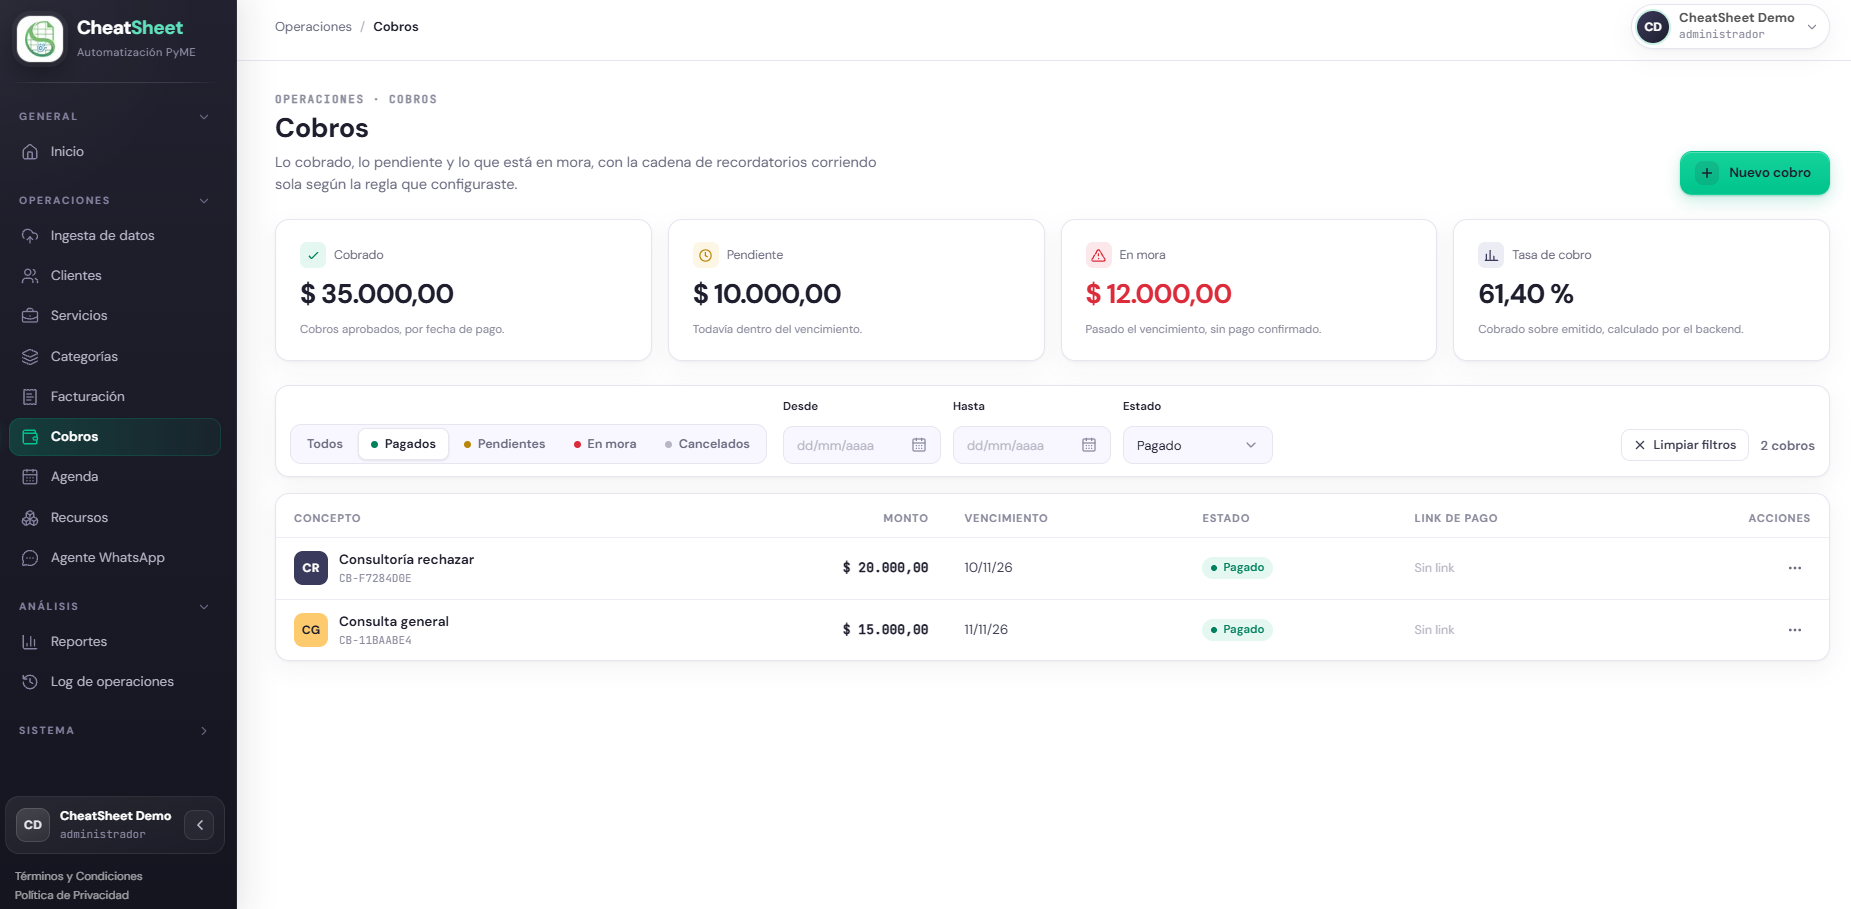
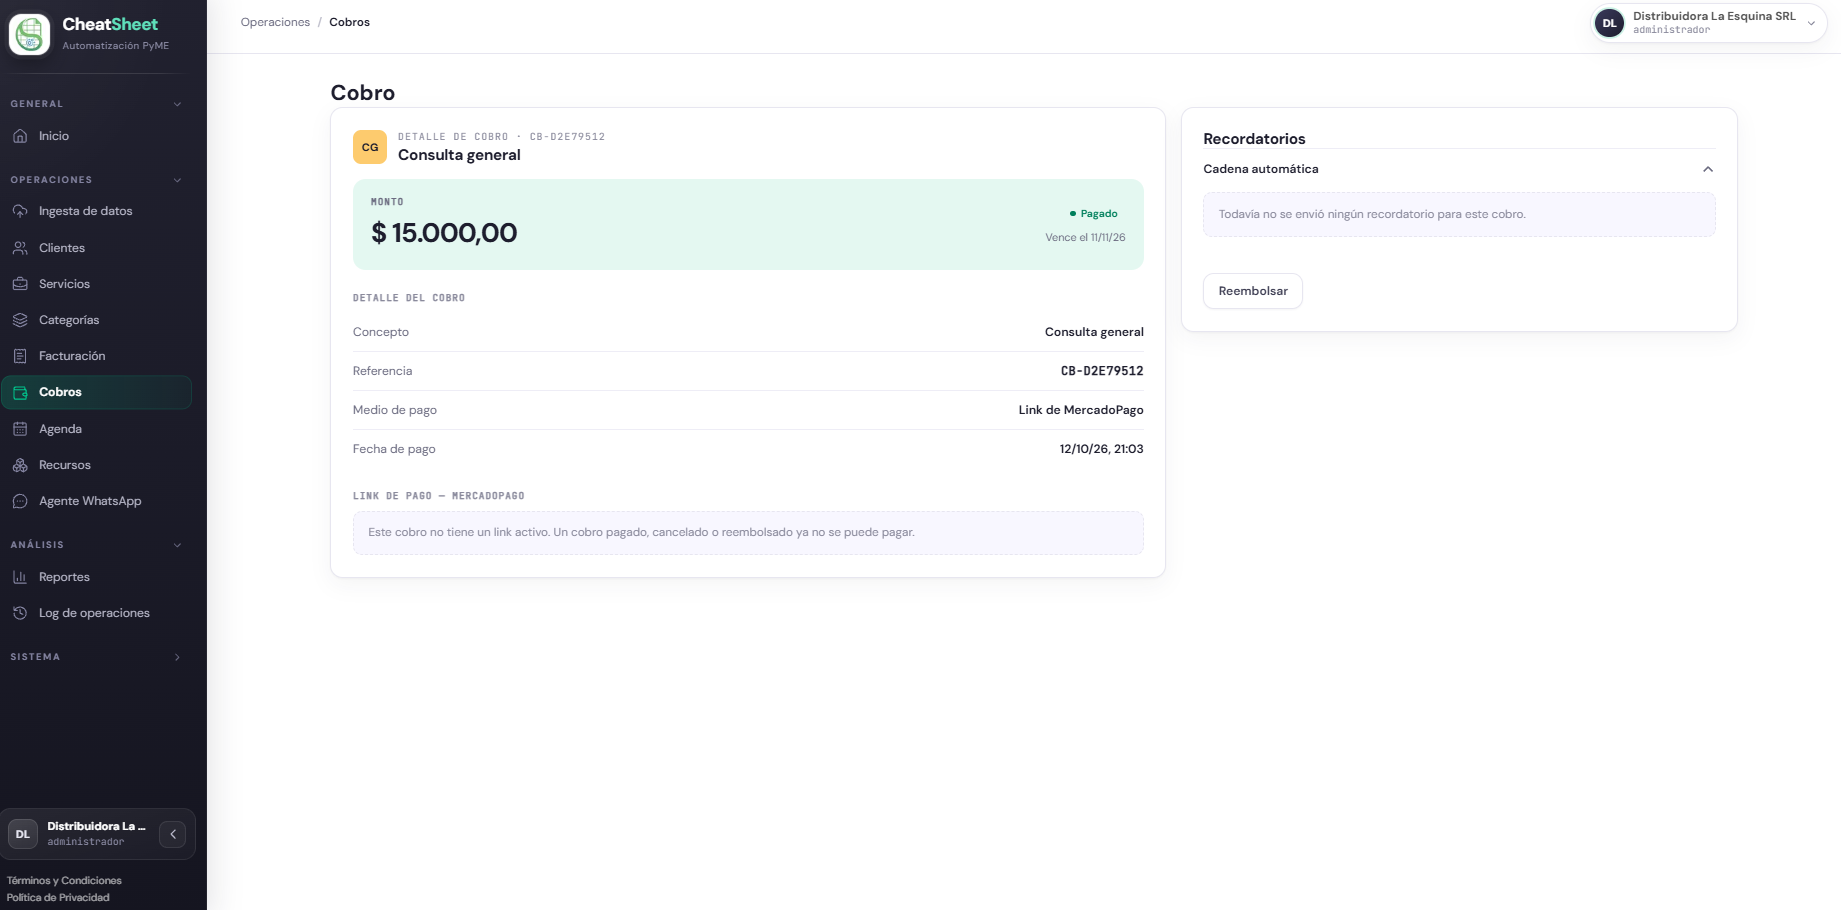
docs(infra): re-run PRU-06 in staging with real MercadoPago
Staging is unblocked. Repeated the test end-to-end against the real
MercadoPago integration (test accounts): paid the checkout link, the
webhook confirmed the cobro automatically. Replaced the local captures
with six staging captures (before/after listado and dashboard, cobro
detail, and the audit log). The log shows a single confirmar_pago by
Sistema plus the repeated notifications rejected as webhook_rechazado,
which also evidences idempotency (RN-04). Estado: Aprobado.

diff --git a/docs/aidlc/etapa-6/entregables/pruebas/PRU-06.md b/docs/aidlc/etapa-6/entregables/pruebas/PRU-06.md
@@ -10,22 +10,21 @@ fuentes:
   - backend/src/cheatsheet/contexts/payments/application/confirmacion.py
   - frontend/src/features/payments/
 observaciones: >
-  1. La prueba se ejecutó en el entorno local del equipo, no en staging. Staging está
-  congelado durante esta etapa y, además, su integración con MercadoPago corre en modo
-  real: no puede confirmar un pago simulado (la pasarela responde 404 ante un pago que no
-  existe en su cuenta). El entorno local reproduce la misma lógica de recepción del
-  webhook con la pasarela simulada, que es el modo previsto para pruebas. La empresa del
-  entorno local se denomina «CheatSheet Demo» y así aparece en el encabezado de las
-  capturas.
-  2. MercadoPago está simulado: el link de pago no procesa un pago real, por lo que el
-  cobro no se aprueba con solo abrir el link. La confirmación se produce cuando el sistema
-  recibe la notificación del webhook (con firma HMAC-SHA256 válida). Por eso el paso 3
-  describe la recepción de la notificación, no el pago desde el checkout de MercadoPago.
-  3. El criterio de HS-T1 sobre reducir el saldo del comprobante asociado solo se
+  1. La prueba se ejecutó en staging con la integración real de MercadoPago, en su
+  entorno de prueba (cuentas de test de MercadoPago). El pago se completó abriendo el
+  link de checkout del cobro e iniciando sesión con una cuenta pagadora de prueba;
+  MercadoPago envió la notificación del webhook y el sistema confirmó el cobro de forma
+  automática. La empresa de staging se denomina «Distribuidora La Esquina SRL» y así
+  aparece en el encabezado de las capturas.
+  2. El criterio de HS-T1 sobre reducir el saldo del comprobante asociado solo se
   ejercita si el cobro está asociado a un comprobante; con un cobro sin comprobante ese
   criterio no aplica y se deja constancia en el resultado.
-  4. Al desbloquearse staging se repetirá la ejecución para registrar las capturas
-  formales del entorno de staging; el comportamiento verificado es el mismo.
+  3. El criterio 4 (idempotencia ante una notificación repetida) quedó evidenciado en
+  staging: MercadoPago reenvió la notificación del mismo pago varias veces y el Log de
+  operaciones muestra una única operación `confirmar_pago` completada, mientras que las
+  notificaciones posteriores del mismo pago quedaron registradas como `webhook_rechazado`
+  (sin un segundo pago confirmado). Además se verificó en el entorno local reenviando la
+  misma notificación del webhook de forma controlada, sin efectos duplicados.
 ---
 
 ## PRU-06 — El webhook de MercadoPago aprueba el cobro y aparece en el listado y en los indicadores
@@ -37,15 +36,15 @@ observaciones: >
 | ID de prueba | PRU-06 |
 | CU/HU referenciado | HS-T1 — Confirmar un pago a partir del webhook de MercadoPago; HU-E6-01 — Consultar el estado de los cobros; HU-E10-01 — Visualizar los indicadores del tablero |
 | Pantalla / Reporte | PAN-COB-01 (listado de cobros), PAN-COB-02 (detalle del cobro), PAN-REP-01 (tablero de indicadores) |
-| Datos de entrada | Administrador de la empresa «CheatSheet Demo» (entorno local). Un cobro pendiente a nombre del cliente **Ana Prueba** (CUIT 20-22222222-3), concepto `Consulta general`, monto `$ 15.000,00`, con link de MercadoPago generado. MercadoPago en modo simulado (ver observaciones 1 y 2). |
-| Pasos | 1. Ingresar al panel con el usuario Administrador y registrar en el tablero (PAN-REP-01) el valor inicial de la métrica «Cobrado» del período. <br> 2. Navegar a «Menú › Cobros» (PAN-COB-01) y verificar que el cobro de prueba figura en estado «Pendiente». <br> 3. Provocar la recepción de la notificación de pago del webhook de MercadoPago para ese cobro (ver observación 1). <br> 4. Abrir el detalle del cobro (PAN-COB-02) y verificar que pasó a «Pagado», con su fecha de pago y el medio «Link de MercadoPago». <br> 5. Volver al listado (PAN-COB-01) y verificar que el cobro figura «Pagado». <br> 6. Abrir el tablero (PAN-REP-01) y verificar que el monto del cobro se sumó a la métrica «Cobrado» del período. <br> 7. Provocar la recepción de la misma notificación una segunda vez y verificar que el cobro y las métricas no cambian. |
+| Datos de entrada | Administrador de la empresa «Distribuidora La Esquina SRL» (staging). Un cobro pendiente a nombre del cliente **Ana Prueba** (CUIT 20-22222222-3), concepto `Consulta general`, monto `$ 15.000,00`, con link de MercadoPago generado. MercadoPago conectado con cuentas de prueba (ver observación 1). |
+| Pasos | 1. Ingresar al panel con el usuario Administrador y registrar en el tablero (PAN-REP-01) el valor inicial de la métrica «Cobrado» del período. <br> 2. Navegar a «Menú › Cobros» (PAN-COB-01) y verificar que el cobro de prueba figura en estado «Pendiente». <br> 3. Abrir el link de pago del cobro en el checkout de MercadoPago, iniciar sesión con una cuenta pagadora de prueba y completar el pago; MercadoPago envía la notificación del webhook y el sistema confirma el cobro (ver observación 1). <br> 4. Abrir el detalle del cobro (PAN-COB-02) y verificar que pasó a «Pagado», con su fecha de pago y el medio «Link de MercadoPago». <br> 5. Volver al listado (PAN-COB-01) y verificar que el cobro figura «Pagado». <br> 6. Abrir el tablero (PAN-REP-01) y verificar que el monto del cobro se sumó a la métrica «Cobrado» del período. <br> 7. Reenviar la misma notificación una segunda vez y verificar que el cobro y las métricas no cambian (ver observación 3). |
 | Resultado esperado | **Criterios de aceptación de HS-T1, HU-E6-01 y HU-E10-01.** 1. Al recibir un webhook de pago válido, el cobro pasa a APROBADO (etiqueta «Pagado») y se detiene la cadena de recordatorios (HS-T1 RN-02). 2. El cobro aprobado figura en el listado (PAN-COB-01) con la etiqueta «Pagado» (HU-E6-01). 3. El monto del cobro se suma a la métrica «Cobrado» del período en el tablero (HU-E10-01 RN-08). 4. Una notificación repetida del mismo pago no genera efectos duplicados (HS-T1 RN-04). 5. El evento queda registrado en la bitácora con iniciador Sistema (HS-T1 RN-05). |
-| Resultado obtenido | Se cumplieron los cinco criterios. 1. Al recibir el webhook de pago con firma válida, el cobro `CB-11BAABE4` (`Consulta general`, $ 15.000,00) pasó de «Pendiente» a «Pagado» (APROBADO), con fecha de pago 12/10/2026 y medio «Link de MercadoPago». 2. En el listado (PAN-COB-01) el cobro figura con la etiqueta «Pagado». 3. La métrica «Cobrado» del período pasó de $ 20.000,00 a $ 35.000,00 (+$ 15.000,00), tanto en el encabezado de Cobros como en el tablero de Reportes (PAN-REP-01). 4. Al repetir la misma notificación una segunda vez, el cobro siguió en «Pagado» con la misma fecha de pago, la métrica «Cobrado» no varió y no se registró un segundo evento: no hubo efectos duplicados (RN-04). 5. El evento quedó en la bitácora como `confirmar_pago`, iniciador «Sistema», resultado «completado» (RN-05). El criterio de reducir el saldo del comprobante no aplica: el cobro no está asociado a un comprobante (observación 3). |
+| Resultado obtenido | Se cumplieron los cinco criterios. 1. Al pagar el link con la cuenta de prueba, MercadoPago envió el webhook y el cobro `CB-D2E79512` (`Consulta general`, $ 15.000,00) pasó de «Pendiente» a «Pagado» (APROBADO), con fecha de pago 12/10/2026 21:03 y medio «Link de MercadoPago». 2. En el listado (PAN-COB-01) el cobro figura con la etiqueta «Pagado». 3. La métrica «Cobrado» del período pasó de $ 0,00 a $ 15.000,00 y «Pendiente» bajó de $ 30.000,00 a $ 15.000,00, tanto en el encabezado de Cobros como en el tablero de Reportes (PAN-REP-01). 4. No hubo efectos duplicados (RN-04): en staging MercadoPago reenvió la notificación del pago varias veces y el Log de operaciones registra una única operación `confirmar_pago` completada, con las notificaciones posteriores del mismo pago como `webhook_rechazado`; se corroboró además en el entorno local reenviando la misma notificación, sin cambios en el cobro ni en las métricas (observación 3). 5. El evento quedó en la bitácora (Log de operaciones) como `confirmar_pago`, iniciador «Sistema», resultado «Completado» (RN-05). El criterio de reducir el saldo del comprobante no aplica: el cobro no está asociado a un comprobante (observación 2). |
 | Estado | Aprobado |
-| Evidencia | ![Figura PRU-06-1 — Listado de Cobros antes del pago: «Cobrado» $ 20.000,00 y el cobro «Consulta general» (CB-11BAABE4) en estado «Pendiente».](capturas/PRU-06_1.png) <br> ![Figura PRU-06-2 — Tablero de Reportes antes del pago: la métrica «Cobrado» del período en $ 20.000,00.](capturas/PRU-06_2.png) <br> ![Figura PRU-06-3 — Listado de Cobros después de recibir el webhook: «Cobrado» $ 35.000,00 y el cobro CB-11BAABE4 en estado «Pagado».](capturas/PRU-06_3.png) <br> ![Figura PRU-06-4 — Tablero de Reportes después del webhook: la métrica «Cobrado» del período en $ 35.000,00.](capturas/PRU-06_4.png) <br> Prueba ejecutada en el entorno local del equipo (ver observación 1); el evento quedó además en la bitácora como `confirmar_pago` con iniciador «Sistema». |
+| Evidencia | ![Figura PRU-06-1 — Listado de Cobros antes del pago: «Cobrado» $ 0,00, «Pendiente» $ 30.000,00 y el cobro «Consulta general» (CB-D2E79512) en estado «Pendiente».](capturas/PRU-06_1.png) <br> ![Figura PRU-06-2 — Tablero de Reportes antes del pago: la métrica «Cobrado» del período en $ 0,00 y «Pendiente de cobro» en $ 30.000,00.](capturas/PRU-06_2.png) <br> ![Figura PRU-06-3 — Detalle del cobro CB-D2E79512 después del pago: estado «Pagado», fecha de pago 12/10/2026 21:03 y medio «Link de MercadoPago».](capturas/PRU-06_3.png) <br> ![Figura PRU-06-4 — Listado de Cobros después del pago: «Cobrado» $ 15.000,00 y el cobro CB-D2E79512 en estado «Pagado».](capturas/PRU-06_4.png) <br> ![Figura PRU-06-5 — Tablero de Reportes después del pago: la métrica «Cobrado» del período en $ 15.000,00 y «Pendiente de cobro» en $ 15.000,00.](capturas/PRU-06_5.png) <br> ![Figura PRU-06-6 — Log de operaciones: la operación `confirmar_pago` sobre el cobro CB-D2E79512, iniciada por «Sistema» y «Completado»; las notificaciones repetidas del mismo pago figuran como `webhook_rechazado`.](capturas/PRU-06_6.png) |
 
 ### Módulos involucrados
 
 - **Cobros**: recibe la notificación del webhook, confirma el pago y lleva el cobro a APROBADO; el listado (PAN-COB-01) lo refleja con la etiqueta «Pagado».
 - **Tablero e Indicadores**: suma el monto del cobro aprobado a la métrica «Cobrado» del período (PAN-REP-01).
-- **Integraciones Externas**: la notificación entrante del webhook de MercadoPago, en modo simulado (pasarela simulada en el entorno local).
+- **Integraciones Externas**: la notificación entrante del webhook de MercadoPago, con la integración real de MercadoPago en su entorno de prueba (cuentas de test).
